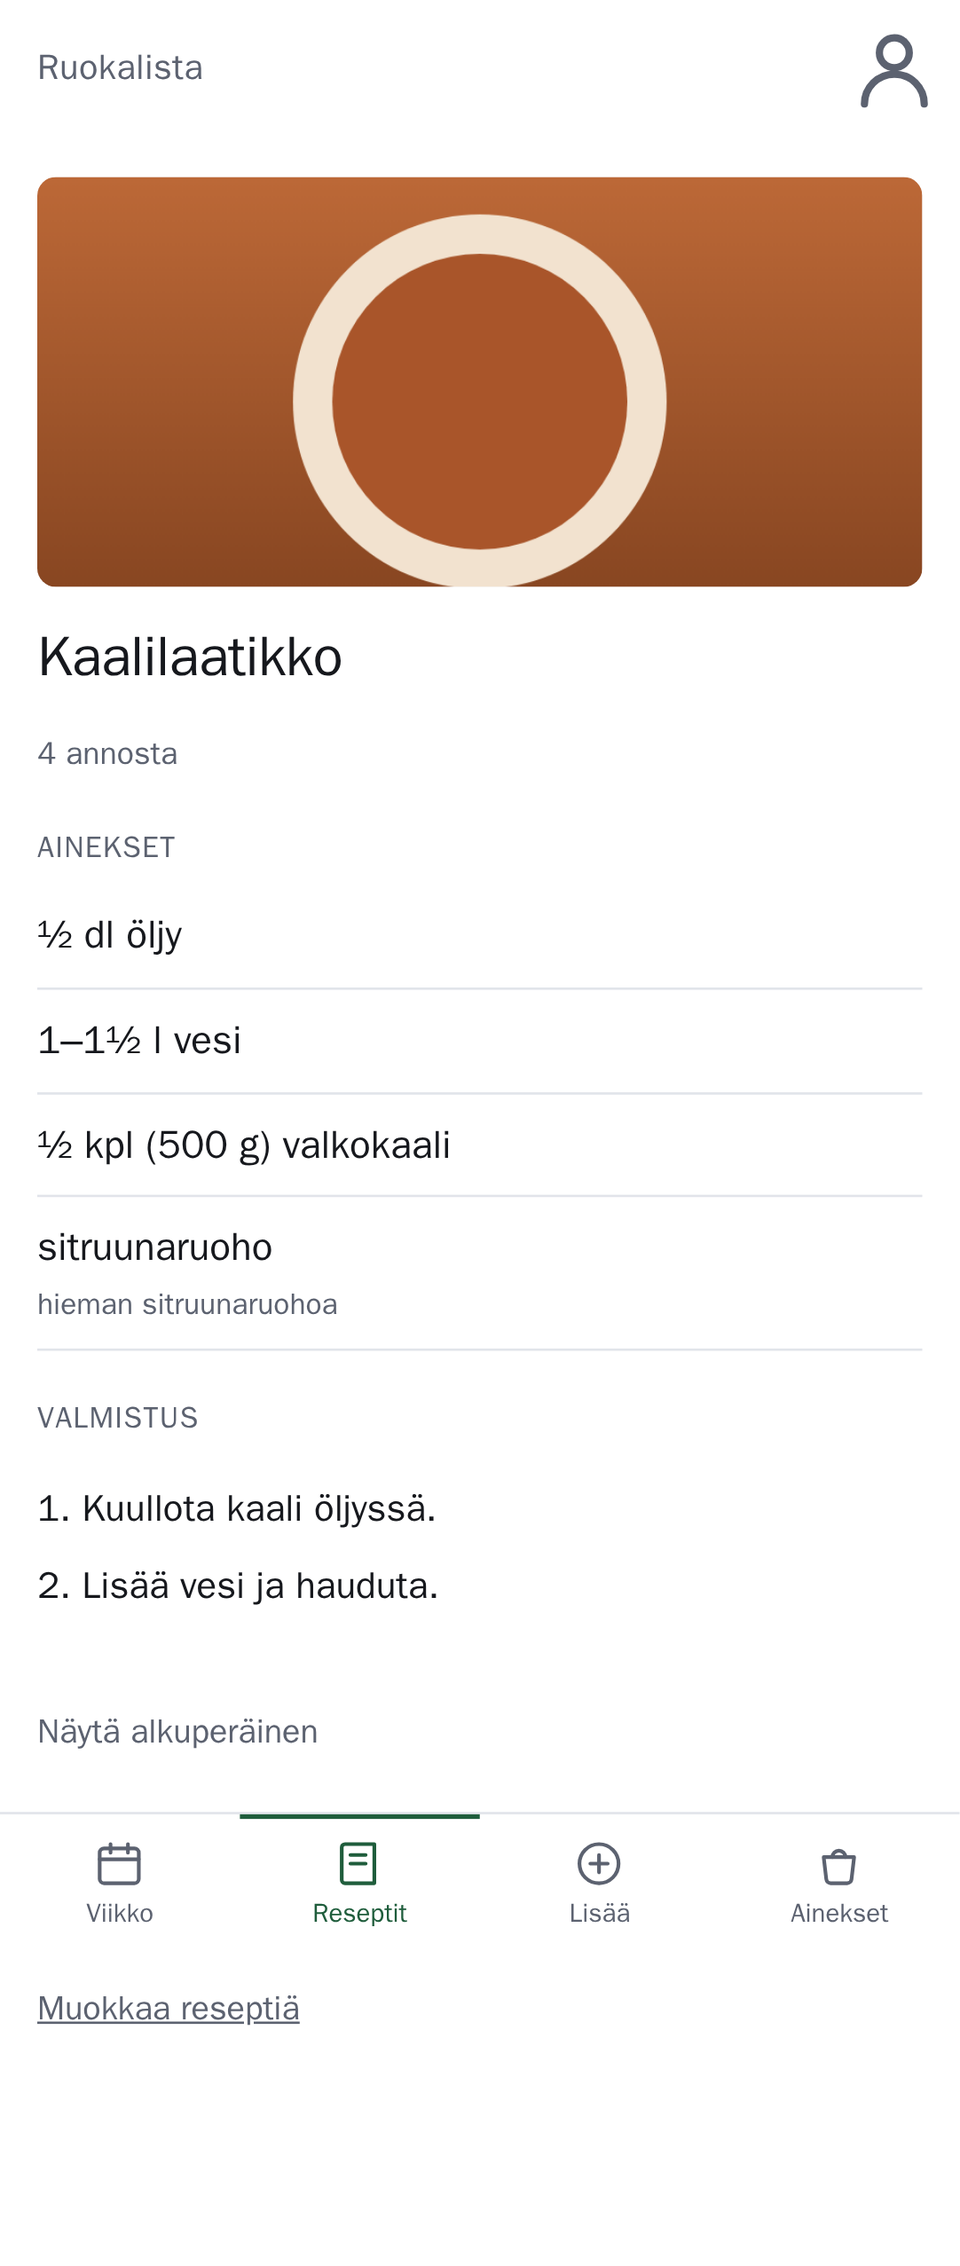
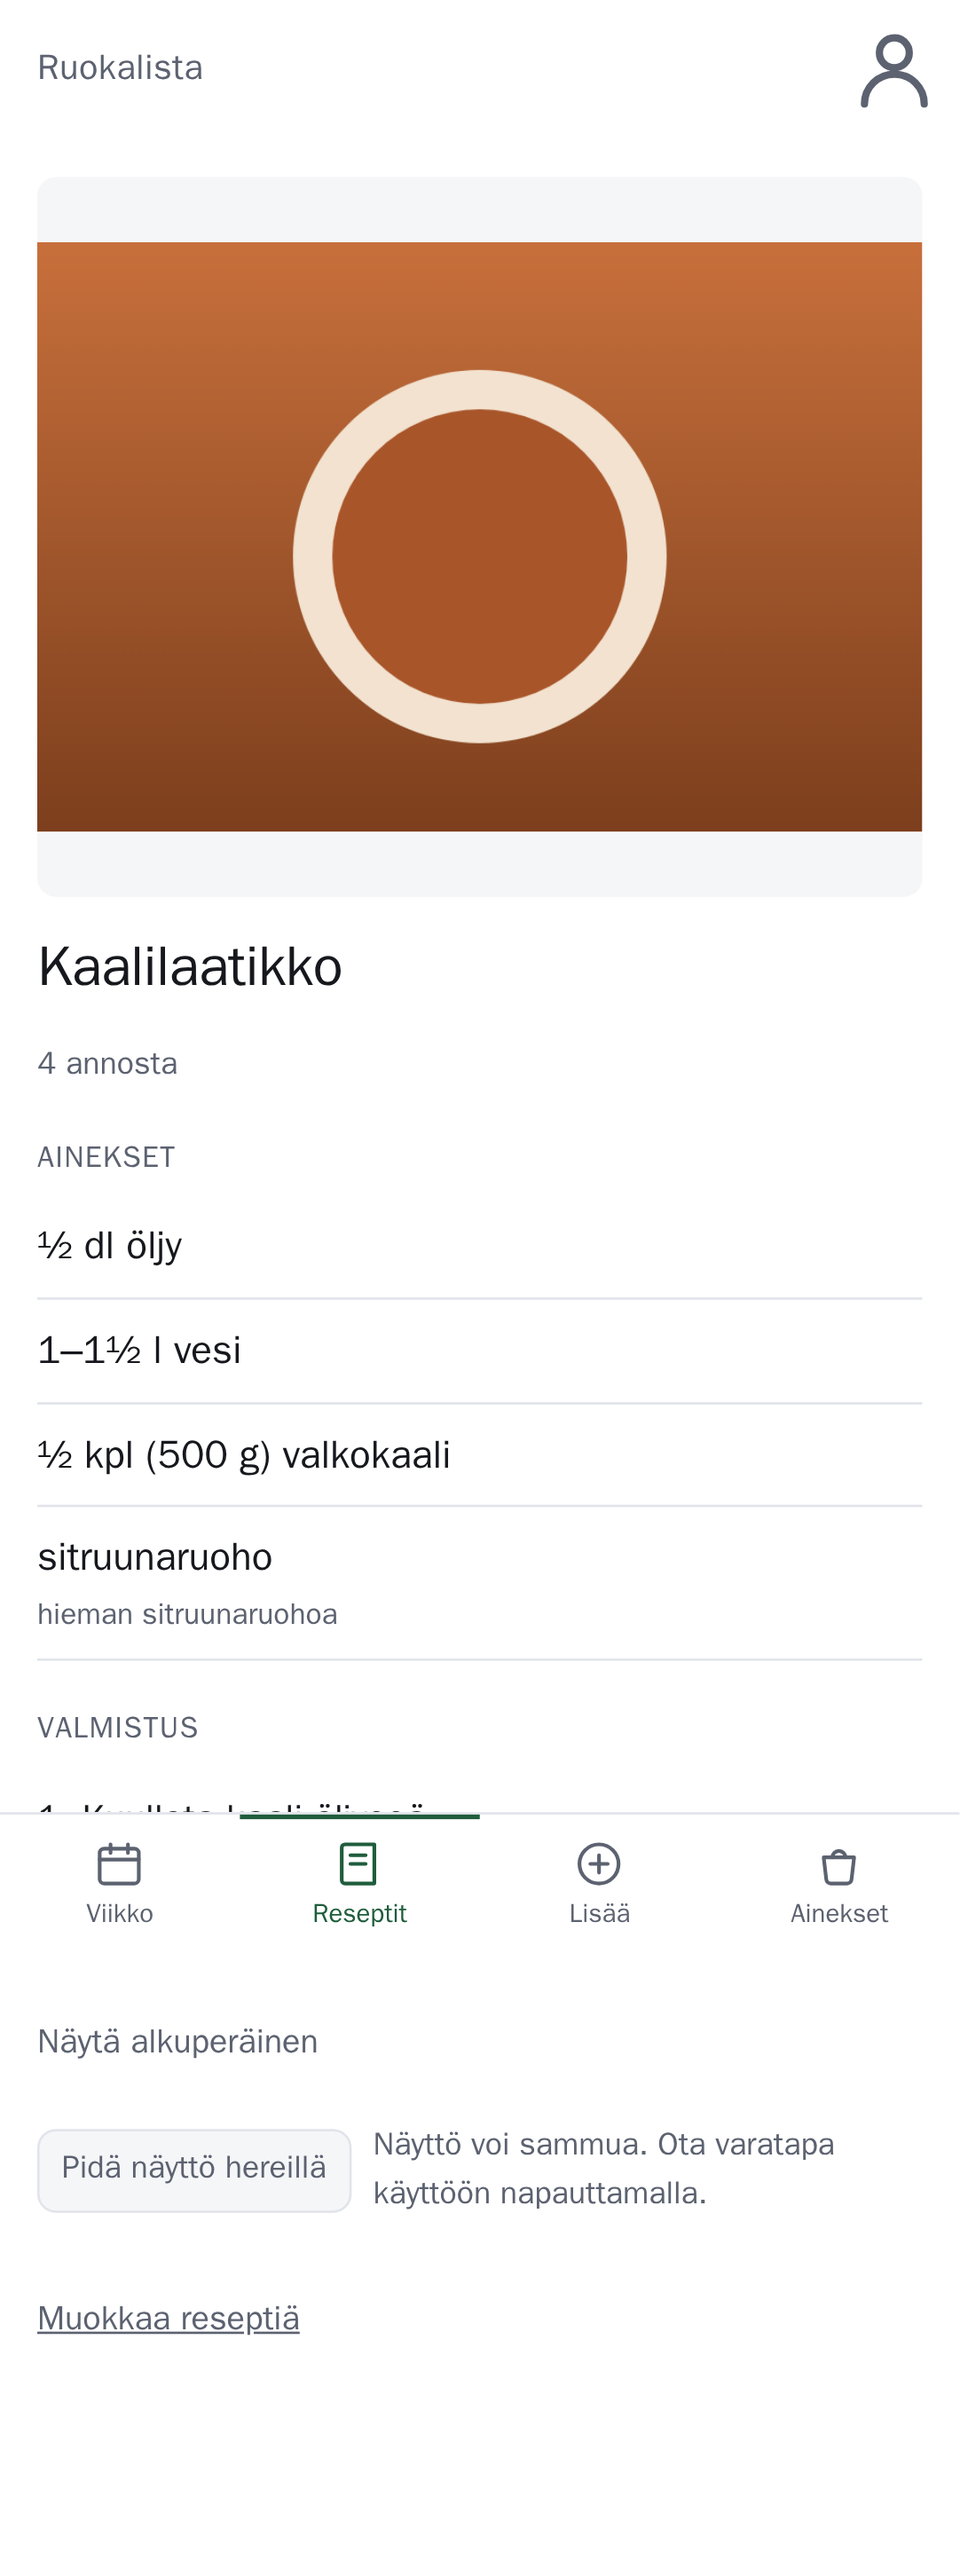
Show a recipe's whole picture on the recipe screen (#116)
The detail hero was the shared `.recipe-image` band: 11rem tall with
`object-fit: cover`, so a square generated picture was zoomed into a
shallow strip and most of the dish was thrown away.

The hero now carries its own `is-hero` class, so the fix cannot reach the
list, week and picker thumbnails, which still crop to keep their rows the
same height. Its band is 75vw — roughly 4:3 of the phone's own width —
capped at 22rem so a portrait upload cannot make the page absurdly tall,
and the picture is contained inside it and centred, with any letterboxing
falling on the surface colour the band already had. A vw height with a
max-height rather than an aspect-ratio, so old Safari needs no fallback
branch. A recipe with no picture keeps the short dashed placeholder.

No image bytes, freshness metadata, prompts or splitter logic change.

diff --git a/tests/recipe-images.spec.ts b/tests/recipe-images.spec.ts
@@ -128,6 +128,62 @@ test.describe("the recipe screen", () => {
     await expect(page.locator("input[type=file]")).toHaveCount(0);
   });
 
+  /**
+   * Issue #116: the hero used to be an 11rem strip filled by `object-fit:
+   * cover`, which threw most of a square generated picture away. This asserts
+   * the geometry rather than the CSS: scale the picture's own dimensions into
+   * the band the way `contain` does, and every pixel of it has to fit.
+   */
+  test("the whole picture fits inside the hero, uncropped", async ({ page }) => {
+    await page.request.put(IMAGE_URL, {
+      headers: { "content-type": "image/png" },
+      data: png(512, 512, [200, 110, 60]),
+    });
+
+    await page.goto(`/recipes/${RECIPE}`);
+    const hero = page.locator(".recipe-image.is-hero");
+    await expect(hero).toBeVisible();
+    const shown = hero.locator("img");
+    await expect(shown).toBeVisible();
+
+    const band = await hero.boundingBox();
+    const natural = await shown.evaluate((img) => ({
+      width: (img as HTMLImageElement).naturalWidth,
+      height: (img as HTMLImageElement).naturalHeight,
+    }));
+    expect(natural.width).toBe(512);
+
+    // Taller than the old strip, and still not the whole phone.
+    const viewport = page.viewportSize();
+    expect(band?.height ?? 0).toBeGreaterThan(176);
+    expect(band?.height ?? 0).toBeLessThan((viewport?.height ?? 0) * 0.75);
+    // And no wider than the page it sits on.
+    expect(band?.width ?? 0).toBeLessThanOrEqual(viewport?.width ?? 0);
+
+    const scale = Math.min(
+      (band?.width ?? 0) / natural.width,
+      (band?.height ?? 0) / natural.height,
+    );
+    expect(natural.width * scale).toBeLessThanOrEqual((band?.width ?? 0) + 1);
+    expect(natural.height * scale).toBeLessThanOrEqual((band?.height ?? 0) + 1);
+
+    // The picture really is drawn whole rather than cropped to fill.
+    await expect(shown).toHaveCSS("object-fit", "contain");
+
+    // The title still follows immediately underneath.
+    const title = await page.locator("h1").boundingBox();
+    expect(title?.y ?? 0).toBeGreaterThan((band?.y ?? 0) + (band?.height ?? 0) - 1);
+
+    // The compact rows are a different case and still crop.
+    await page.goto("/recipes");
+    const thumb = page.locator(".recipes .recipe-image.is-thumb img").first();
+    await expect(thumb).toBeVisible();
+    await expect(thumb).toHaveCSS("object-fit", "cover");
+    await expect(page.locator(".recipes .recipe-image.is-hero")).toHaveCount(0);
+
+    await page.request.delete(IMAGE_URL);
+  });
+
   test("no screen but the editor offers an upload", async ({ page }) => {
     for (const url of ["/recipes", `/recipes/${RECIPE}`, "/?week=2026-10-05"]) {
       await page.goto(url);

diff --git a/tests/screenshots.spec.ts b/tests/screenshots.spec.ts
@@ -227,6 +227,59 @@ test.describe("signed in", () => {
     await page.request.delete("/api/recipes/1/image");
   });
 
+  /**
+   * Issue #116, on a phone: the square, part-transparent picture the generator
+   * actually produces, shown on the recipe screen. The shot is the evidence
+   * that the dish is whole rather than cropped into a strip, that the
+   * transparent corners sit on the ordinary surface colour, and that the title
+   * and ingredients still start right underneath it.
+   */
+  test("a square generated picture on the recipe screen", async ({ page }) => {
+    const square = await page.evaluate(() => {
+      const el = document.createElement("canvas");
+      el.width = 512;
+      el.height = 512;
+      const ctx = el.getContext("2d");
+      if (ctx === null) return "";
+      // Transparent everywhere the dish is not — exactly what a cut cell is.
+      ctx.fillStyle = "#c8703c";
+      ctx.beginPath();
+      ctx.arc(256, 256, 240, 0, Math.PI * 2);
+      ctx.fill();
+      ctx.fillStyle = "#f2e2cf";
+      ctx.beginPath();
+      ctx.arc(256, 256, 180, 0, Math.PI * 2);
+      ctx.fill();
+      ctx.fillStyle = "#7d3f1d";
+      for (let at = 0; at < 6; at += 1) {
+        const angle = (at / 6) * Math.PI * 2;
+        ctx.beginPath();
+        ctx.arc(256 + Math.cos(angle) * 110, 256 + Math.sin(angle) * 110, 34, 0, Math.PI * 2);
+        ctx.fill();
+      }
+      return el.toDataURL("image/png").split(",")[1] ?? "";
+    });
+
+    await page.request.put("/api/recipes/1/image", {
+      headers: { "content-type": "image/png" },
+      data: Buffer.from(square, "base64"),
+    });
+
+    await page.goto("/recipes/1");
+    const hero = page.locator(".recipe-image.is-hero img");
+    await expect(hero).toBeVisible();
+    // The intended state, asserted before the shutter: the whole square is
+    // drawn inside the band rather than cropped to fill it.
+    await expect(hero).toHaveCSS("object-fit", "contain");
+    await expect(hero).toHaveJSProperty("naturalWidth", 512);
+    await page.screenshot({
+      path: `${SHOTS}/35-recipe-image-square.png`,
+      fullPage: true,
+    });
+
+    await page.request.delete("/api/recipes/1/image");
+  });
+
   test("older iPad keep-awake confirmation", async ({ page }) => {
     await page.addInitScript(() => {
       Object.defineProperty(navigator, "wakeLock", {

diff --git a/src/html.ts b/src/html.ts
@@ -418,7 +418,7 @@ const STYLES = `
     color: var(--accent-fg); background: var(--accent); border-color: var(--accent);
     font-weight: 600;
   }
-  /* A fixed height rather than an aspect-ratio: the same band is there whether
+  /* A height in CSS rather than an aspect-ratio: the same band is there whether
      the recipe has a picture or not, so nothing shifts as you scroll, and old
      Safari — which has no aspect-ratio — gets the same layout as everything
      else. */
@@ -428,6 +428,21 @@ const STYLES = `
   }
   .recipe-image img { display: block; width: 100%; height: 100%; object-fit: cover; }
   .recipe-image.is-empty { border: 1px dashed var(--edge); }
+  /* The main picture on a screen that is about one dish. The generator makes
+     square pictures with the food deliberately inside the frame, so cropping
+     one into an 11rem strip throws most of it away (issue #116). This band is
+     4:3 of the phone's own width — taller than the strip, still not the whole
+     screen — and the picture is contained inside it rather than cropped to
+     fill it. A vw height with a max-height rather than an aspect-ratio, so
+     there is one rule and no fallback branch for old Safari. The cap stops a
+     portrait
+     upload making the page absurdly tall. Any letterboxing shows the surface
+     colour the band already has, so it reads as a frame. */
+  .recipe-image.is-hero { height: 75vw; max-height: 22rem; }
+  .recipe-image.is-hero img { object-fit: contain; object-position: center; }
+  /* A recipe with no picture keeps the short band: an empty dashed box has
+     nothing to show, so there is no reason to give it more of the screen. */
+  .recipe-image.is-hero.is-empty { height: 11rem; }
   /* The same picture at row size. It never flexes, so a long title cannot
      squeeze it, and it crops rather than squashing: a recipe photograph is not
      a shape we get to choose. */

diff --git a/src/recipes.ts b/src/recipes.ts
@@ -432,8 +432,12 @@ export interface Pictured {
  *
  * Two sizes, because a list row and a recipe screen want very different
  * pictures out of the same object: `hero` is the band above a title, `thumb`
- * is the square that sits at the start of a row. Both crop rather than
- * squash — a recipe photograph is not a shape we control.
+ * is the square that sits at the start of a row. They differ in what they do
+ * with a picture that is not the band's shape. A `thumb` crops to fill its
+ * square — a row of them has to line up, and a squashed dish is worse than a
+ * cropped one. A `hero` is shown whole inside its band, because the screen is
+ * about that one dish and the generator already framed it (issue #116); the
+ * two carry different classes so a change to one cannot reach the other.
  *
  * Read-only on purpose. Uploading happens in the editor and nowhere else, so
  * no screen that calls this offers a control.
@@ -442,7 +446,8 @@ export function recipeImage(
   recipe: Pictured,
   size: "hero" | "thumb" = "hero",
 ): Raw {
-  const shape = size === "thumb" ? "recipe-image is-thumb" : "recipe-image";
+  const shape =
+    size === "thumb" ? "recipe-image is-thumb" : "recipe-image is-hero";
   return recipe.imageKey === null
     ? html`<div class="${shape} is-empty" aria-hidden="true"></div>`
     : html`<div class="${shape}">

diff --git a/docs/screenshots/README.md b/docs/screenshots/README.md
@@ -40,3 +40,4 @@ Regenerate after a change that alters a screen:
 | `34-admin-recipe-images-done.png` | Proposed same screen after the browser cut a sheet and stored the crops |
 | `32-generated-images.png` | Recipe list with every row pictured from one contact sheet |
 | `33-generated-recipe.png` | One recipe with its picture from that sheet |
+| `35-recipe-image-square.png` | Proposed recipe hero: a square generated picture shown whole rather than cropped into a strip |
